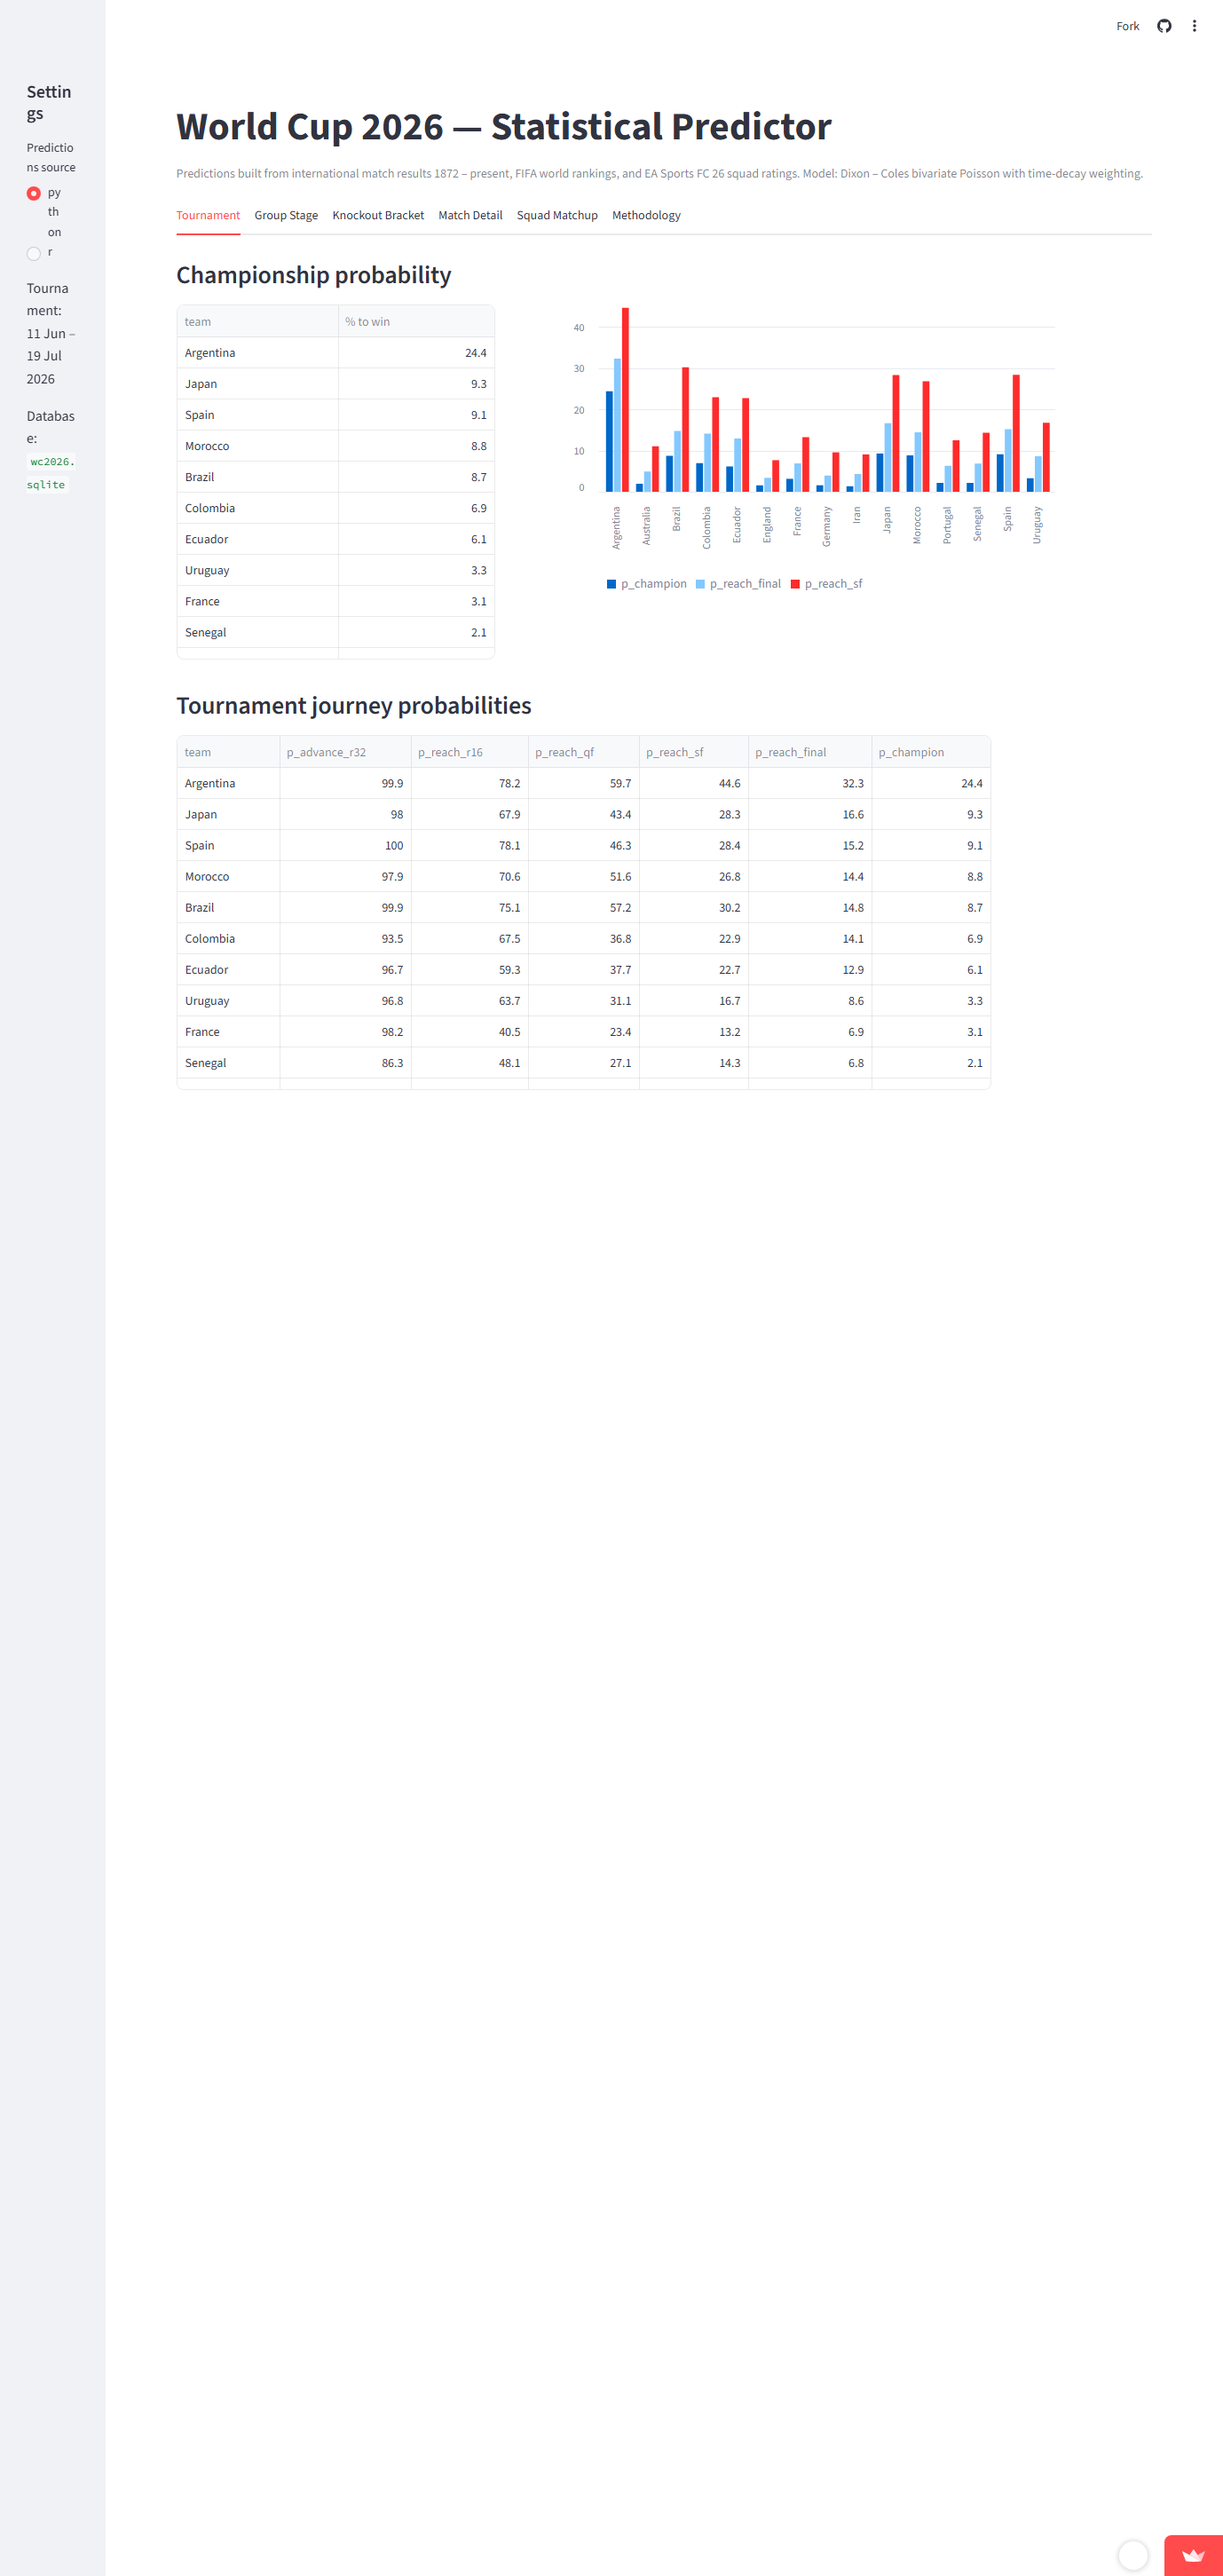
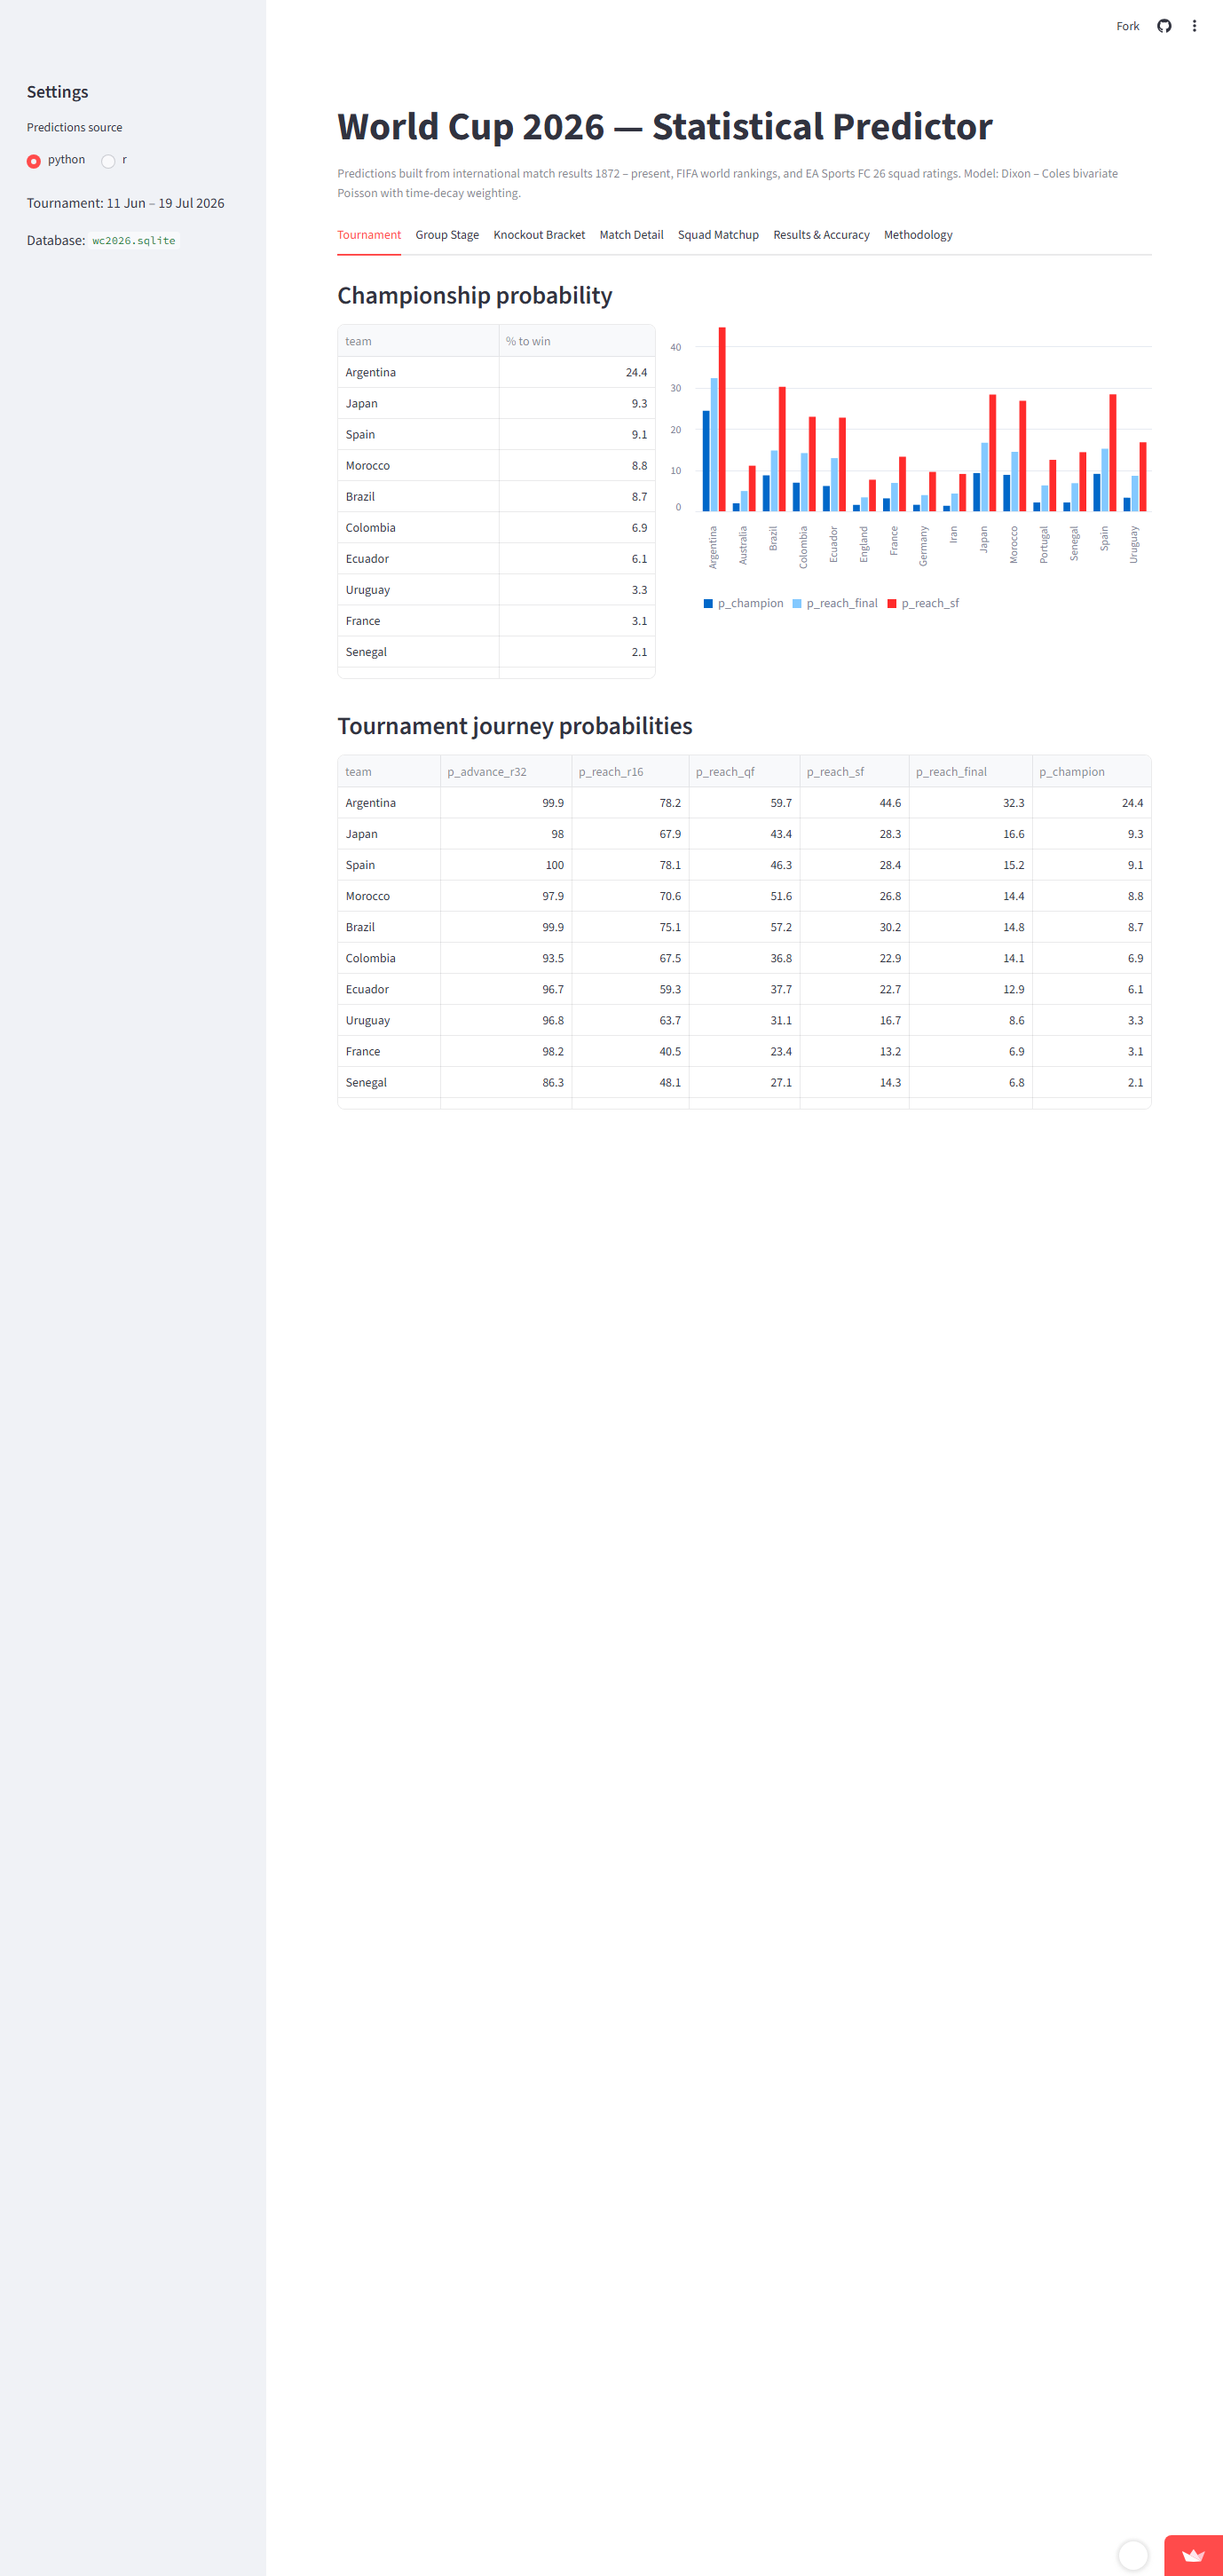
Tighten live-capture readiness check and refresh screenshot
The probe now waits for a team name AND a decimal percentage in the
DOM before declaring 'ready', so the snap fires after the dataframes
have actually painted rather than as soon as the tab labels appear.
Refreshed live-tournament.png with the now-seven-tab layout (Results
& Accuracy is the new tab) on a properly rendered deploy.

diff --git a/docs/_capture_live.py b/docs/_capture_live.py
@@ -74,9 +74,12 @@ try:
         "    ? [...document.body.querySelectorAll('button')] : [];"
         "  const wake = btns.find(b => /get this app back up/i.test(b.innerText));"
         "  if (wake) { wake.click(); return 'wake-clicked'; }"
+        # Tournament tab is ready only when a team name + a percentage
+        # figure are both in the DOM (the dataframes have actually painted).
         "  if (/Statistical Predictor/.test(t) &&"
-        "      (/Championship probability/.test(t)"
-        "       || /Tournament/.test(t) || /Group/.test(t))) {"
+        "      /Championship probability/.test(t) &&"
+        "      /Argentina|Brazil|Japan|Spain|Morocco/.test(t) &&"
+        "      /\\d+\\.\\d/.test(t)) {"
         "    return 'ready';"
         "  }"
         "  if (/Please wait/.test(t) || /Loading/.test(t)) return 'loading';"
